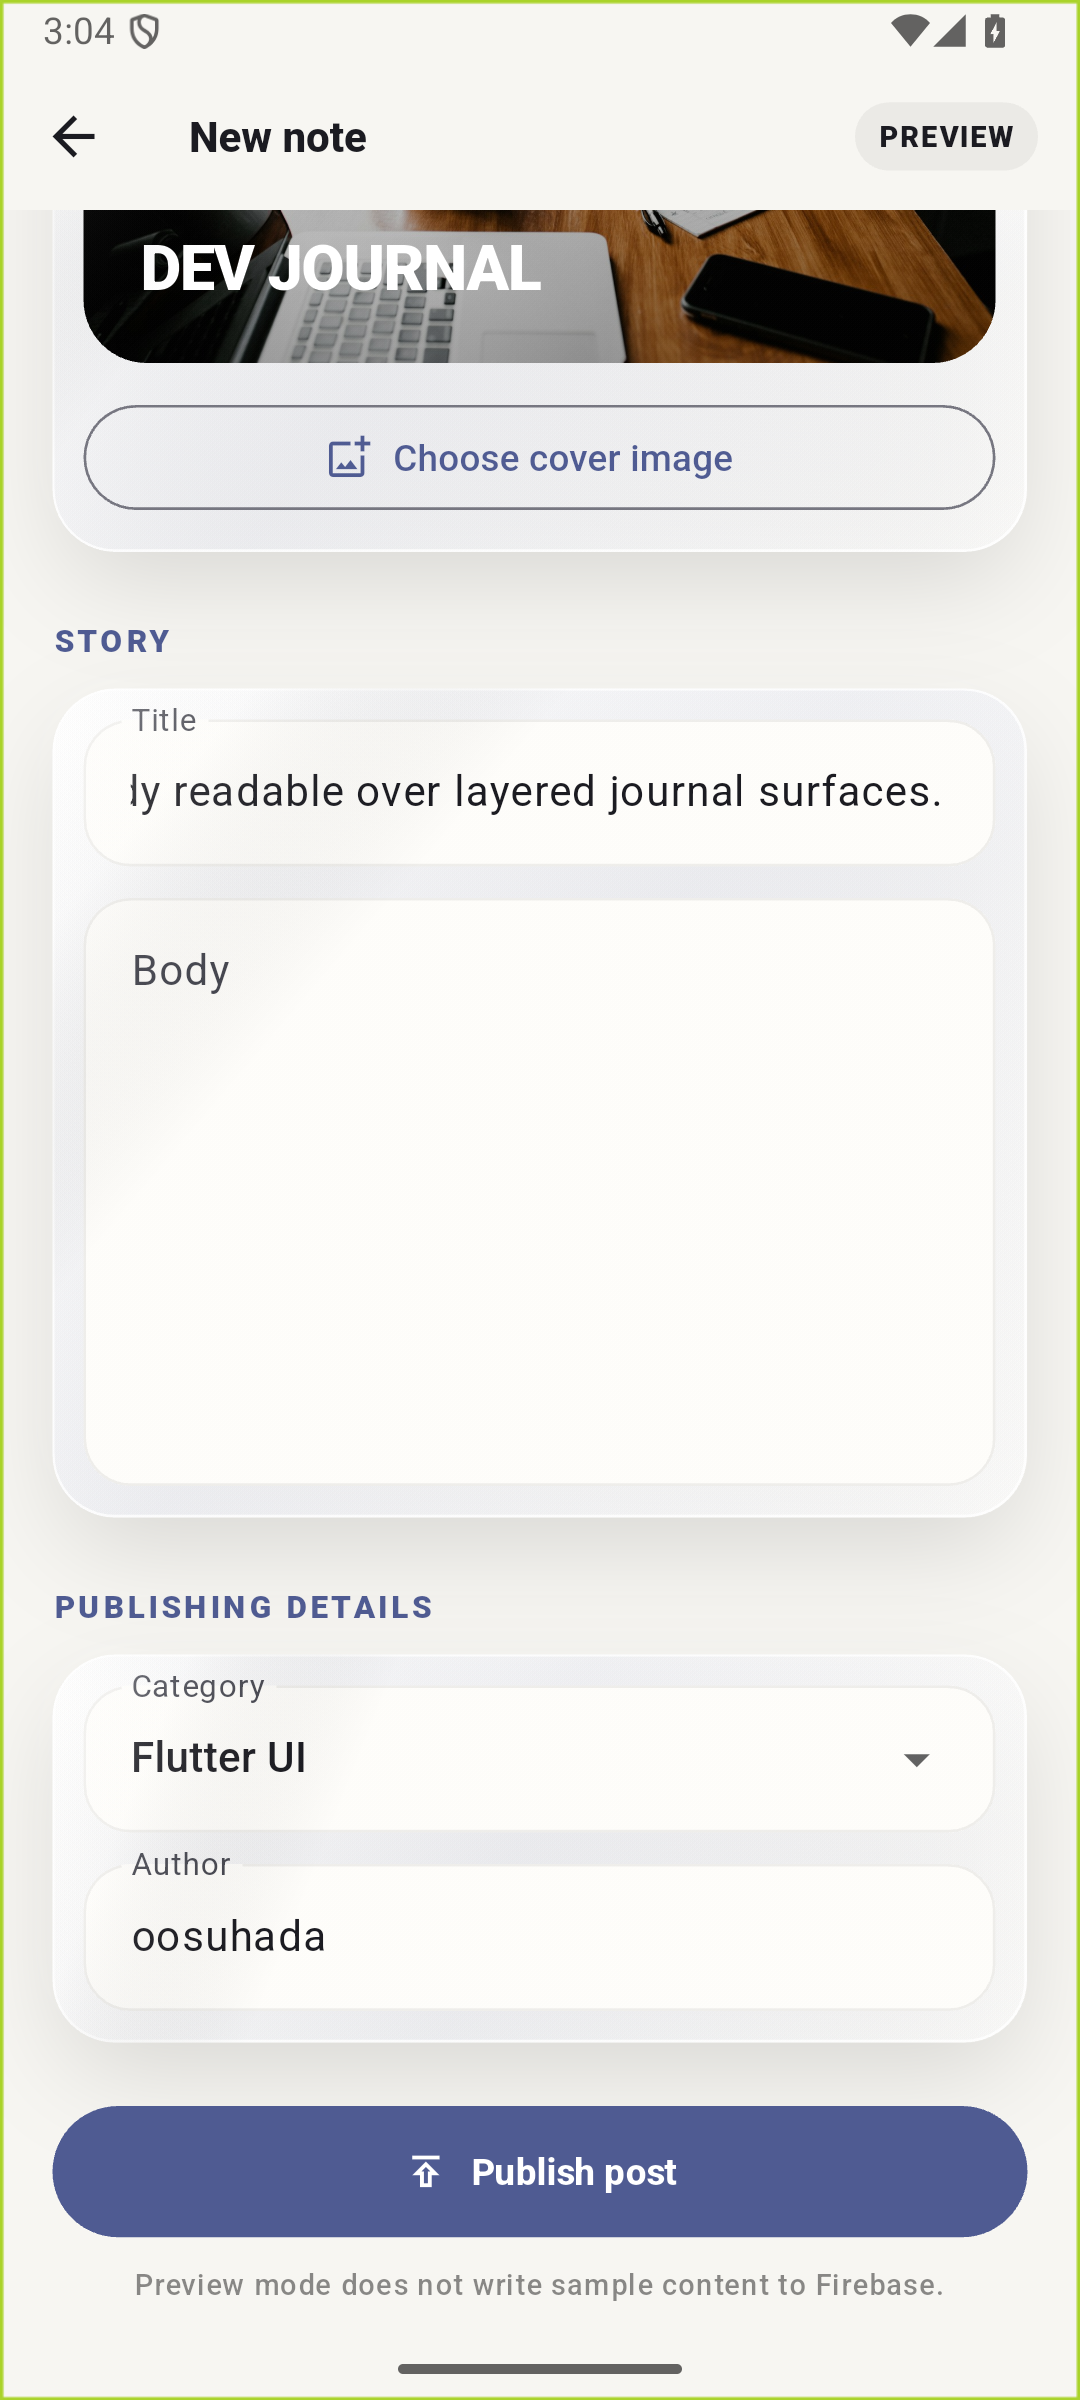
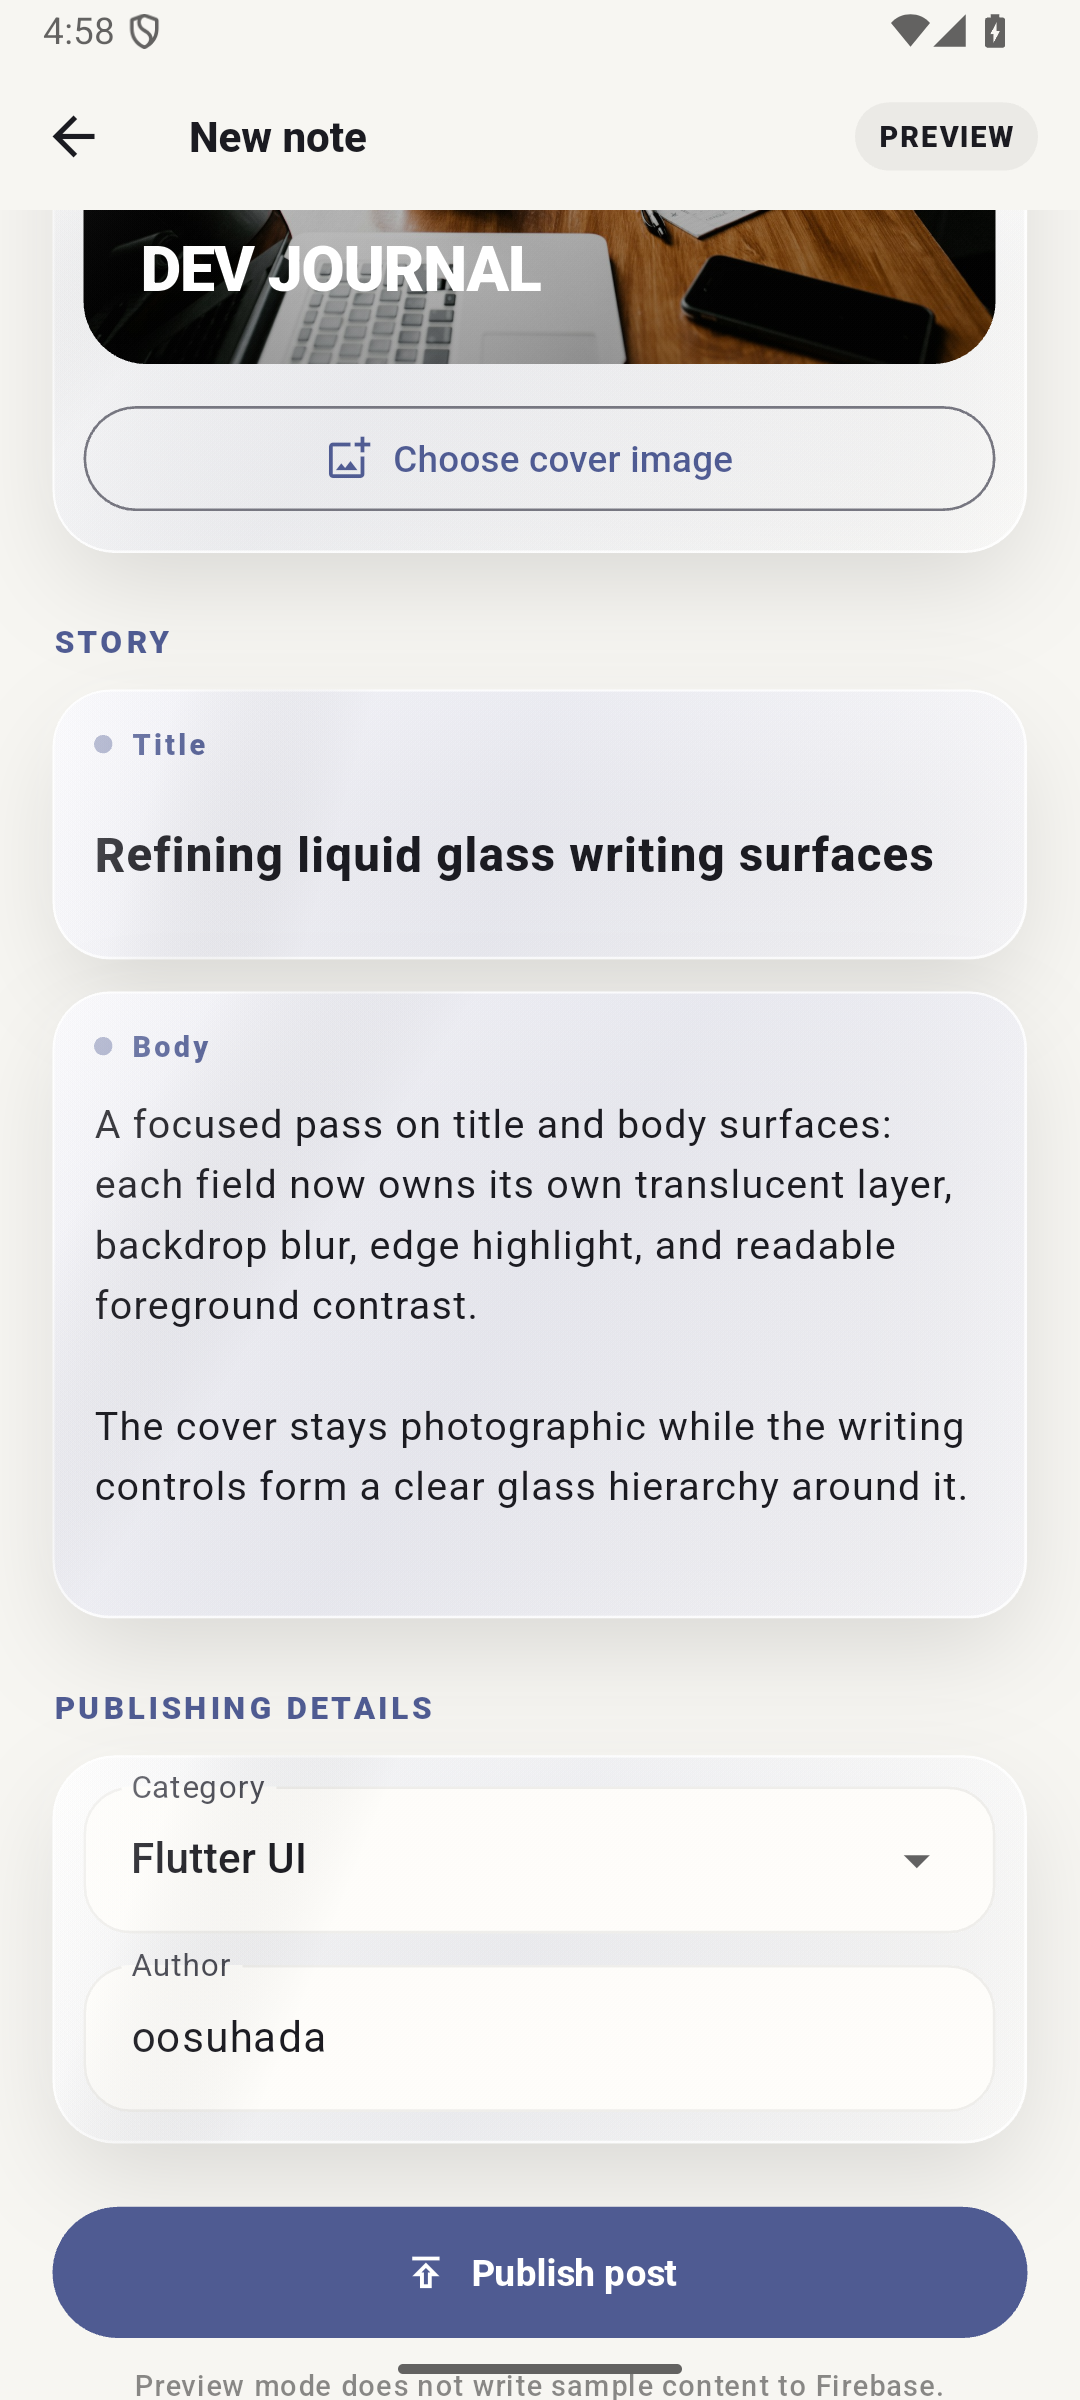
Separate writing fields into liquid glass surfaces

diff --git a/lib/ui/pages/write/write_page.dart b/lib/ui/pages/write/write_page.dart
@@ -44,8 +44,16 @@ class _WritePageState extends ConsumerState<WritePage> {
     super.initState();
     writerController =
         TextEditingController(text: widget.post?.writer ?? 'oosuhada');
-    titleController = TextEditingController(text: widget.post?.title ?? '');
-    contentController = TextEditingController(text: widget.post?.content ?? '');
+    titleController = TextEditingController(
+      text: widget.post?.title ??
+          (widget.previewMode ? 'Refining liquid glass writing surfaces' : ''),
+    );
+    contentController = TextEditingController(
+      text: widget.post?.content ??
+          (widget.previewMode
+              ? 'A focused pass on title and body surfaces: each field now owns its own translucent layer, backdrop blur, edge highlight, and readable foreground contrast.\n\nThe cover stays photographic while the writing controls form a clear glass hierarchy around it.'
+              : ''),
+    );
     final initialCategory = widget.post?.category ?? categories.first;
     selectedCategory = categories.contains(initialCategory)
         ? initialCategory
@@ -148,38 +156,50 @@ class _WritePageState extends ConsumerState<WritePage> {
               const SizedBox(height: 26),
               _SectionLabel(label: 'STORY'),
               const SizedBox(height: 10),
-              _GlassFormSection(
-                surfaceOpacity: .74,
-                child: Column(
-                  children: [
-                    TextFormField(
-                      controller: titleController,
-                      textInputAction: TextInputAction.next,
-                      textCapitalization: TextCapitalization.sentences,
-                      onChanged: (_) => setState(() {}),
-                      decoration: const InputDecoration(
-                        labelText: 'Title',
-                        hintText: 'What did you learn or ship?',
-                      ),
-                      validator: _required('Add a title'),
-                    ),
-                    const SizedBox(height: 12),
-                    TextFormField(
-                      controller: contentController,
-                      minLines: 8,
-                      maxLines: 16,
-                      textInputAction: TextInputAction.newline,
-                      keyboardType: TextInputType.multiline,
-                      textCapitalization: TextCapitalization.sentences,
-                      decoration: const InputDecoration(
-                        labelText: 'Body',
-                        alignLabelWithHint: true,
-                        hintText:
-                            'Context, decisions, tradeoffs, and what you would do next…',
-                      ),
-                      validator: _required('Write a few notes first'),
-                    ),
-                  ],
+              _GlassWritingField(
+                label: 'Title',
+                child: TextFormField(
+                  controller: titleController,
+                  textInputAction: TextInputAction.next,
+                  textCapitalization: TextCapitalization.sentences,
+                  onChanged: (_) => setState(() {}),
+                  decoration: const InputDecoration(
+                    hintText: 'What did you learn or ship?',
+                    filled: false,
+                    border: InputBorder.none,
+                    enabledBorder: InputBorder.none,
+                    focusedBorder: InputBorder.none,
+                    contentPadding: EdgeInsets.zero,
+                  ),
+                  style: const TextStyle(
+                    fontSize: 18,
+                    fontWeight: FontWeight.w800,
+                    height: 1.3,
+                  ),
+                  validator: _required('Add a title'),
+                ),
+              ),
+              const SizedBox(height: 12),
+              _GlassWritingField(
+                label: 'Body',
+                child: TextFormField(
+                  controller: contentController,
+                  minLines: 8,
+                  maxLines: 16,
+                  textInputAction: TextInputAction.newline,
+                  keyboardType: TextInputType.multiline,
+                  textCapitalization: TextCapitalization.sentences,
+                  decoration: const InputDecoration(
+                    hintText:
+                        'Context, decisions, tradeoffs, and what you would do next…',
+                    filled: false,
+                    border: InputBorder.none,
+                    enabledBorder: InputBorder.none,
+                    focusedBorder: InputBorder.none,
+                    contentPadding: EdgeInsets.zero,
+                  ),
+                  style: const TextStyle(fontSize: 15, height: 1.55),
+                  validator: _required('Write a few notes first'),
                 ),
               ),
               const SizedBox(height: 26),
@@ -378,22 +398,82 @@ class _SectionLabel extends StatelessWidget {
 }
 
 class _GlassFormSection extends StatelessWidget {
-  const _GlassFormSection({
-    required this.child,
-    this.surfaceOpacity = .68,
-  });
+  const _GlassFormSection({required this.child});
 
   final Widget child;
-  final double surfaceOpacity;
 
   @override
   Widget build(BuildContext context) {
     return AppGlassSurface(
       borderRadius: BorderRadius.circular(24),
       blurSigma: 16,
-      surfaceOpacity: surfaceOpacity,
+      surfaceOpacity: .68,
       padding: const EdgeInsets.all(12),
       child: child,
+    );
+  }
+}
+
+class _GlassWritingField extends StatefulWidget {
+  const _GlassWritingField({
+    required this.label,
+    required this.child,
+  });
+
+  final String label;
+  final Widget child;
+
+  @override
+  State<_GlassWritingField> createState() => _GlassWritingFieldState();
+}
+
+class _GlassWritingFieldState extends State<_GlassWritingField> {
+  bool _focused = false;
+
+  @override
+  Widget build(BuildContext context) {
+    final scheme = Theme.of(context).colorScheme;
+    return Focus(
+      onFocusChange: (focused) {
+        if (_focused != focused) setState(() => _focused = focused);
+      },
+      child: AppGlassSurface(
+        tint: _focused ? scheme.primaryContainer : const Color(0xFFF8F8FE),
+        surfaceOpacity: _focused ? .76 : .66,
+        blurSigma: 20,
+        borderRadius: BorderRadius.circular(22),
+        padding: const EdgeInsets.fromLTRB(16, 13, 16, 16),
+        child: Column(
+          crossAxisAlignment: CrossAxisAlignment.start,
+          children: [
+            Row(
+              children: [
+                Container(
+                  width: 7,
+                  height: 7,
+                  decoration: BoxDecoration(
+                    color: _focused
+                        ? scheme.primary
+                        : scheme.primary.withValues(alpha: .5),
+                    shape: BoxShape.circle,
+                  ),
+                ),
+                const SizedBox(width: 7),
+                Text(
+                  widget.label,
+                  style: Theme.of(context).textTheme.labelSmall?.copyWith(
+                        color: scheme.primary,
+                        fontWeight: FontWeight.w900,
+                        letterSpacing: 1.25,
+                      ),
+                ),
+              ],
+            ),
+            const SizedBox(height: 10),
+            widget.child,
+          ],
+        ),
+      ),
     );
   }
 }
